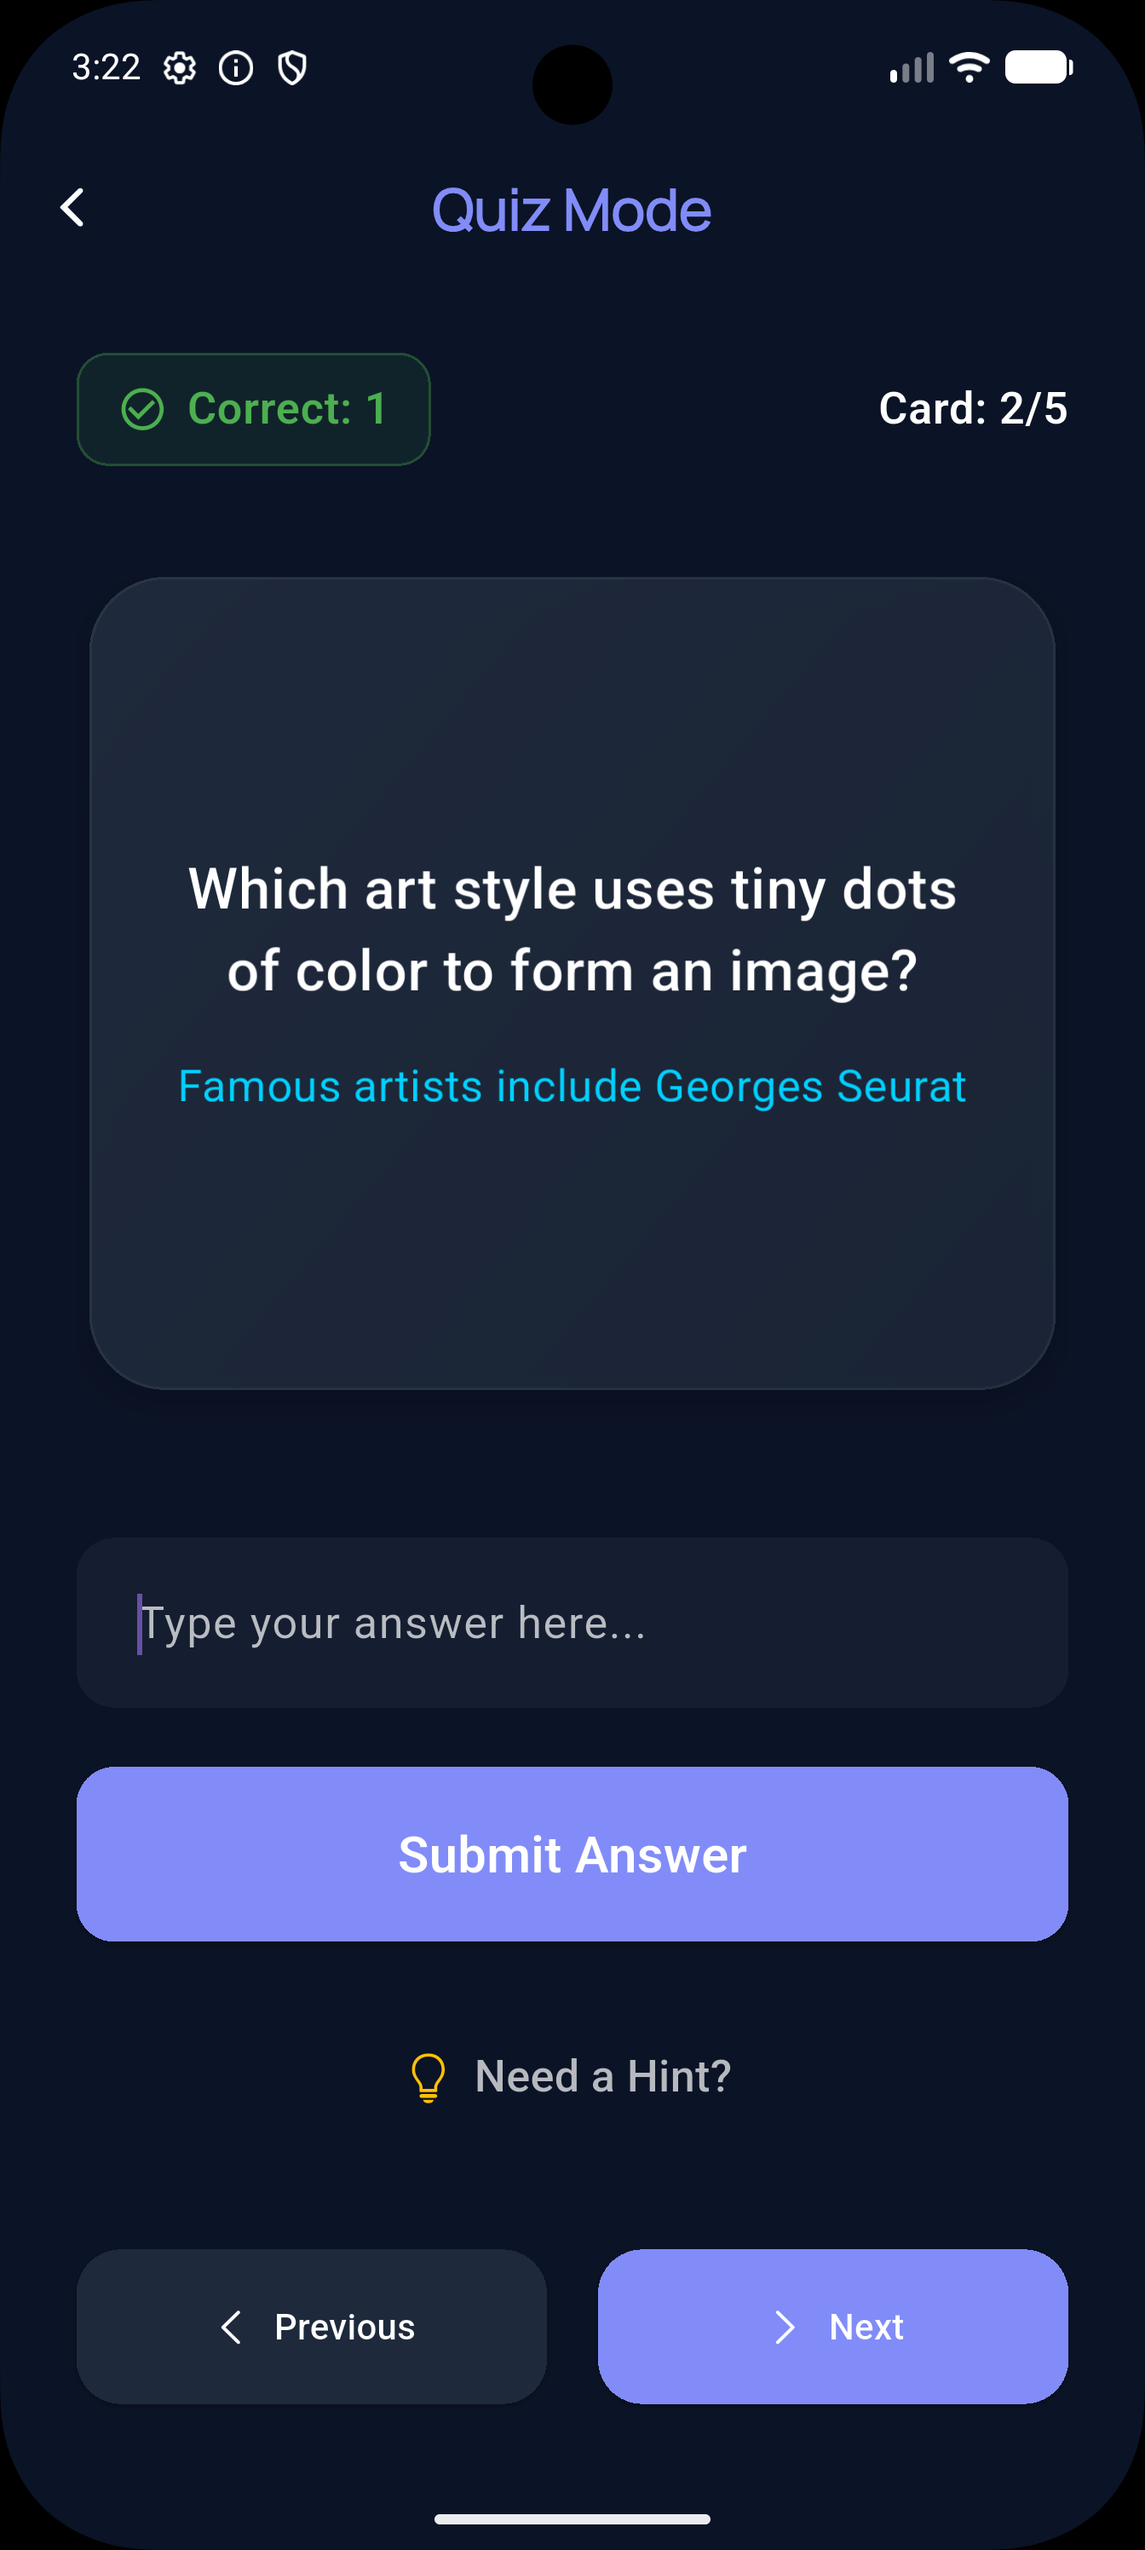
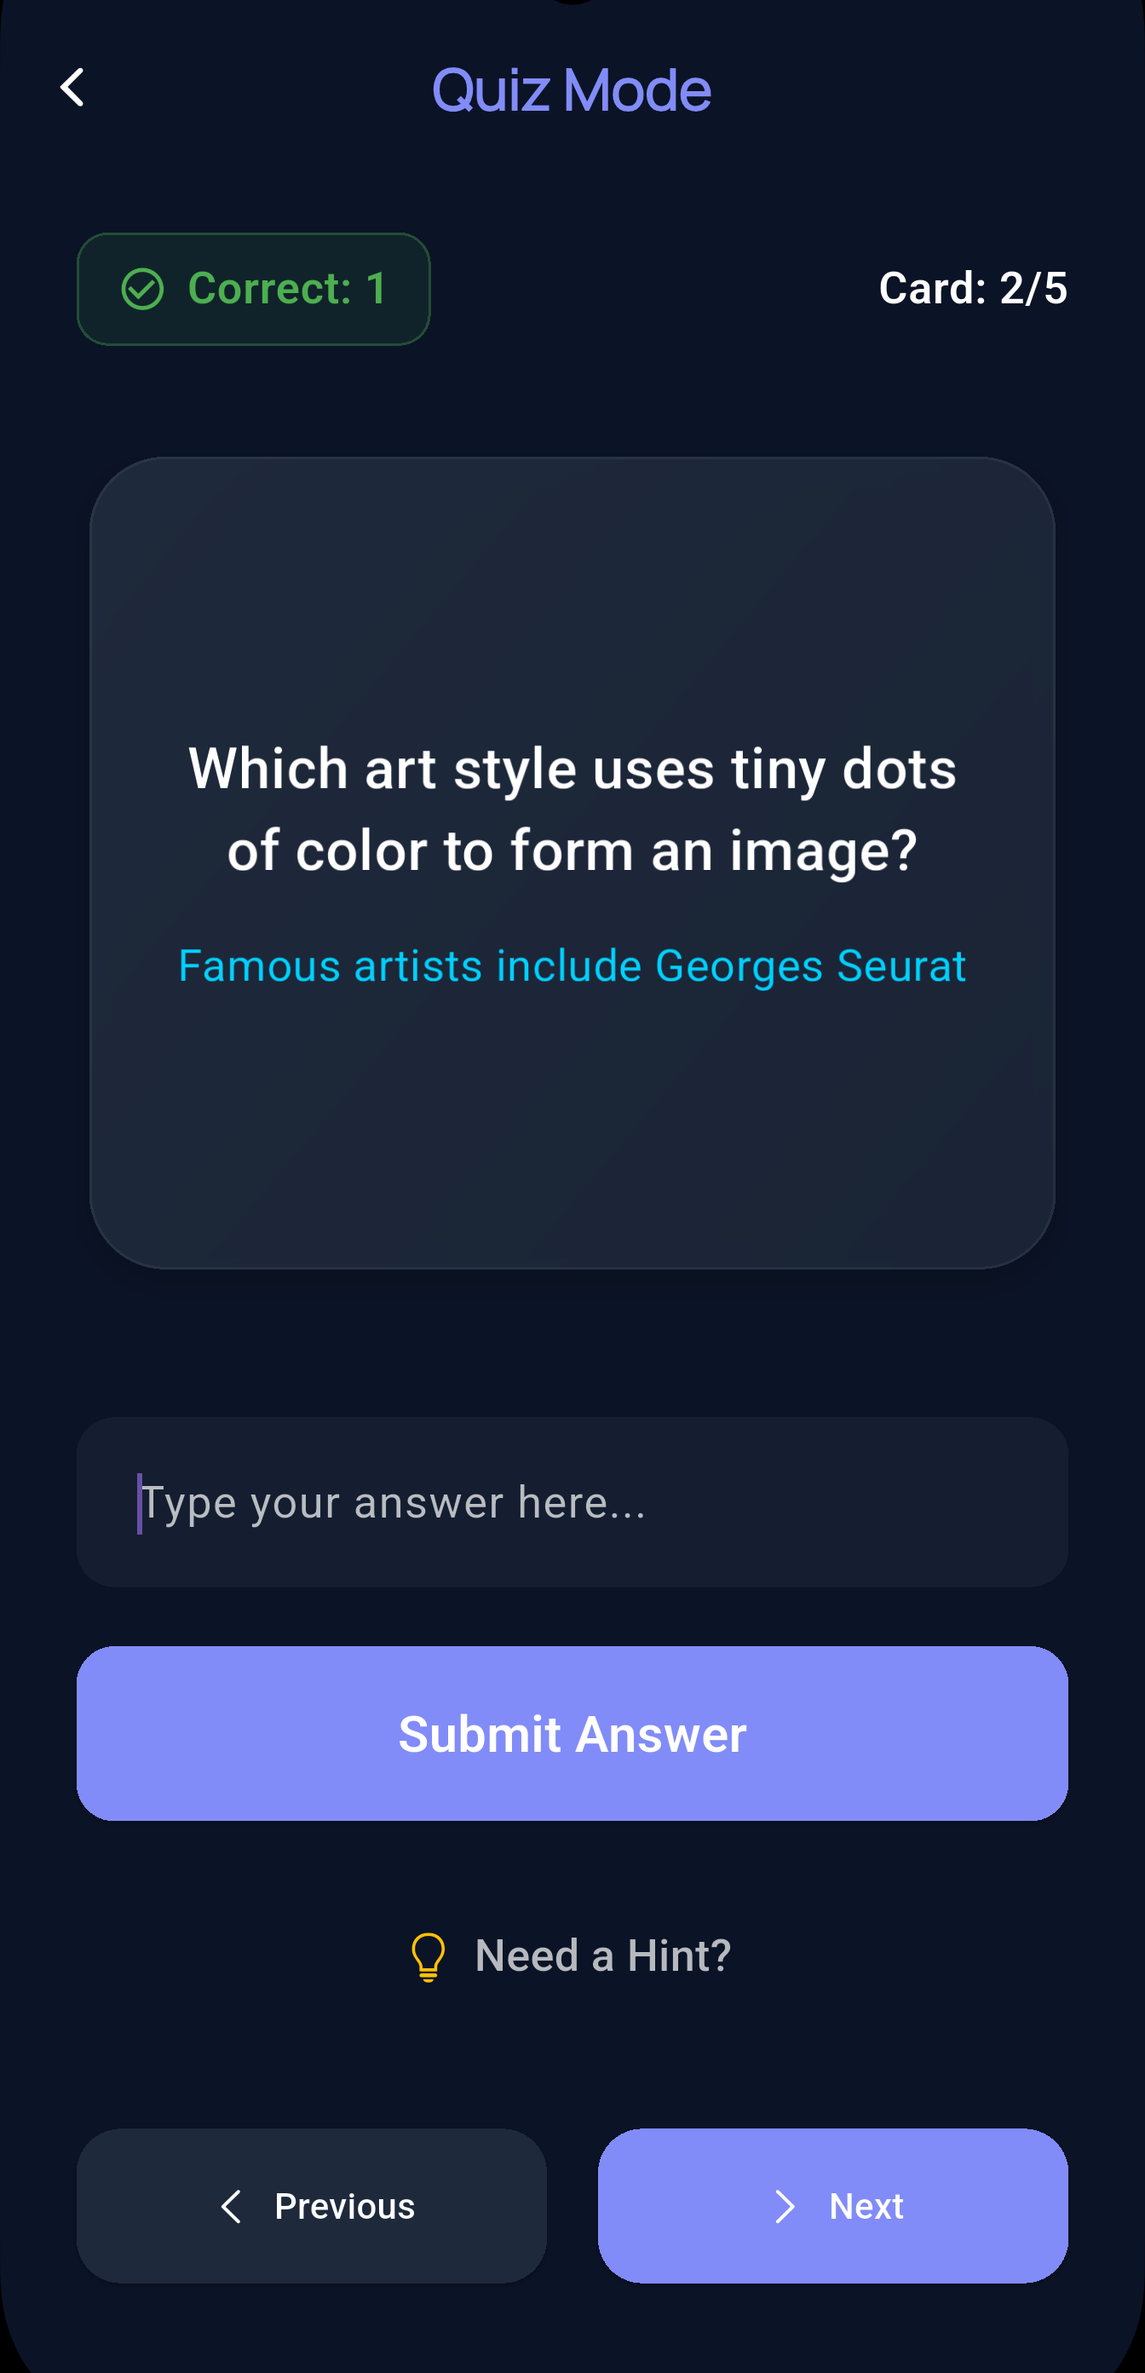
Add Google Play link to README and update project documentation

diff --git a/README.md b/README.md
@@ -15,9 +15,16 @@
   <a href="https://flutter.dev">
     <img src="https://img.shields.io/badge/Platform-Android%20%7C%20iOS-blue.svg?style=for-the-badge" alt="Platform">
   </a>
+  <a href="https://play.google.com/store/apps/details?id=com.ahmed.revio&hl=en_US">
+    <img src="https://img.shields.io/badge/Google%20Play-Available-4285F4.svg?style=for-the-badge&logo=googleplay&logoColor=white" alt="Google Play">
+  </a>
 </p>
 
 <p><strong>A sleek, dark-themed flashcard app built with Flutter, featuring flip card animations, quiz mode with hints, offline storage, and Clean Architecture.</strong></p>
+
+<p>
+  <a href="https://play.google.com/store/apps/details?id=com.ahmed.revio&hl=en_US"><strong>&#128241; Get it on Google Play</strong></a>
+</p>
 
 <p>
   <a href="#-features">&#10024; Features</a> &#8226; 
@@ -38,8 +45,7 @@
 
 ### 📱 Watch Revio in Action
 
-**[▶ Watch on YouTube Shorts](https://youtube.com/shorts/-9VfbxIcZkU?si=QQEJBxtYDR_acrIy)**
-
+**[▶ Watch on YouTube Shorts](https://youtube.com/shorts/-9VfbxIcZkU?si=Tcpe0iwRztryd7w4)**
 
 </div>
 
@@ -53,11 +59,7 @@
 
 </div>
 
-**Revio** is a modern Flutter flashcard application designed for efficient learning and
-memorization. Built with Clean Architecture and offline-first storage via Hive, it delivers a
-seamless, beautiful dark-themed user experience with animated flip cards, intelligent quiz mode with
-hints, and full CRUD operations. Designed as a portfolio project demonstrating best practices in
-mobile development.
+**Revio** is a modern Flutter flashcard application designed for efficient learning and memorization. Built with Clean Architecture and offline-first storage via Hive, it delivers a seamless, beautiful dark-themed user experience with animated flip cards, intelligent quiz mode with hints, and full CRUD operations. Designed as a portfolio project demonstrating best practices in mobile development.
 
 ---
 
@@ -68,35 +70,23 @@ mobile development.
 </div>
 
 ### &#127919; Core Features
-
 - **Flashcard Library** &#128218; Create, read, update, and delete flashcards with ease
-- **Flip Card Animation** &#128260; Smooth 3D flip animation to reveal answers (powered by
-  flip_card)
-- **Quiz Mode** &#127919; Test your knowledge with swipeable cards, Previous/Next navigation, and
-  progress tracking
-- **Smart Hints** &#128161; Optional hints for each card -- reveal when stuck, with graceful
-  handling when no hint exists
-- **Add New Cards** &#10133; Intuitive form with Question (Front), optional Hint, and Answer (Back)
-  fields
-- **Review & Manage** &#128221; Browse all cards in a scrollable list with inline Edit and Delete
-  actions
+- **Flip Card Animation** &#128260; Smooth 3D flip animation to reveal answers (powered by flip_card)
+- **Quiz Mode** &#127919; Test your knowledge with swipeable cards, Previous/Next navigation, and progress tracking
+- **Smart Hints** &#128161; Optional hints for each card -- reveal when stuck, with graceful handling when no hint exists
+- **Add New Cards** &#10133; Intuitive form with Question (Front), optional Hint, and Answer (Back) fields
+- **Review & Manage** &#128221; Browse all cards in a scrollable list with inline Edit and Delete actions
 - **Card Counter** &#128290; Real-time total cards display on the home dashboard
-- **Discard Protection** &#128737; Prevents accidental data loss when exiting the add card form with
-  unsaved changes
-- **Snackbar Feedback** &#9989; Visual confirmation for all CRUD operations (save, update, delete,
-  refresh)
+- **Discard Protection** &#128737; Prevents accidental data loss when exiting the add card form with unsaved changes
+- **Snackbar Feedback** &#9989; Visual confirmation for all CRUD operations (save, update, delete, refresh)
 - **Dark Theme UI** &#127769; Elegant dark interface with indigo accents for comfortable studying
 
 ### &#128295; Technical Highlights
-
 - **Clean Architecture** &#127959; Feature-based separation with clear layer boundaries
-- **BLoC (Cubit) State Management** &#129504; Predictable, scalable state with 4 states per
-  feature (Initial, Loading, Success, Error)
-- **Hive Local Database** &#128452; Blazing fast, lightweight NoSQL key-value storage for offline
-  persistence
+- **BLoC (Cubit) State Management** &#129504; Predictable, scalable state with 4 states per feature (Initial, Loading, Success, Error)
+- **Hive Local Database** &#128452; Blazing fast, lightweight NoSQL key-value storage for offline persistence
 - **Flip Card Animation** &#127136; 3D card flip using the flip_card package
-- **Responsive Design** &#128208; flutter_screenutil for pixel-perfect layouts across all screen
-  sizes
+- **Responsive Design** &#128208; flutter_screenutil for pixel-perfect layouts across all screen sizes
 - **Custom Typography** &#128395; Manrope font family for modern, readable text
 - **Navigation Extension** &#129517; Clean routing helper for type-safe navigation
 - **Native Splash & Icons** &#128241; Configured launcher icons and splash screen for Android
@@ -115,34 +105,33 @@ mobile development.
 
 ### &#128241; App Launch & Home
 
-|                &#127919; App Icon                |                &#128640; Splash Screen                |              &#128202; Home Dashboard               |
-|:------------------------------------------------:|:-----------------------------------------------------:|:---------------------------------------------------:|
+| &#127919; App Icon | &#128640; Splash Screen | &#128202; Home Dashboard |
+|:-------------------:|:-------------------------:|:---------------------------:|
 | <img src="screenshots/app_icon.png" width="200"> | <img src="screenshots/splash_screen.png" width="200"> | <img src="screenshots/home_screen.png" width="200"> |
-|            Revio on your home screen             |              Elegant dark splash screen               |    Card library with total count and navigation     |
+| Revio on your home screen | Elegant dark splash screen | Card library with total count and navigation |
 
 ### &#10133; Card Creation & Quiz Start
 
-|                   &#128221; Add New Card                    |                &#127919; Quiz -- First Question                |            &#127136; Quiz -- Mid Session            |
-|:-----------------------------------------------------------:|:--------------------------------------------------------------:|:---------------------------------------------------:|
+| &#128221; Add New Card | &#127919; Quiz -- First Question | &#127136; Quiz -- Mid Session |
+|:-------------------------:|:------------------------------------:|:---------------------------------:|
 | <img src="screenshots/add_new_card_screen.png" width="200"> | <img src="screenshots/first_q_in_quiz_screen.png" width="200"> | <img src="screenshots/quiz_screen.png" width="200"> |
-|         Form with Question, Hint, and Answer fields         |                        Start your quiz                         |               Navigate through cards                |
+| Form with Question, Hint, and Answer fields | Start your quiz | Navigate through cards |
 
 ### &#127136; Quiz Flow & Hints
 
-|                &#127136; Quiz -- Last Question                |                        &#128161; Hint Revealed                         |                       &#9888; No Hint Available                        |
-|:-------------------------------------------------------------:|:----------------------------------------------------------------------:|:----------------------------------------------------------------------:|
+| &#127136; Quiz -- Last Question | &#128161; Hint Revealed | &#9888; No Hint Available |
+|:------------------------------------:|:--------------------------:|:-----------------------------:|
 | <img src="screenshots/last_q_in_quiz_screen.png" width="200"> | <img src="screenshots/quiz_screen_when_user_use_hint.png" width="200"> | <img src="screenshots/quiz_screen_when_no_hint_exist.png" width="200"> |
-|                      Finish your session                      |                         Helpful hint displayed                         |                       Graceful fallback message                        |
+| Finish your session | Helpful hint displayed | Graceful fallback message |
 
 ### &#128203; Review & Answer Feedback
 
-|                   &#128221; Review Cards                    |                   &#9989; Correct Answer                    |                  &#10060; Incorrect Answer                  |
-|:-----------------------------------------------------------:|:-----------------------------------------------------------:|:-----------------------------------------------------------:|
+| &#128221; Review Cards | &#9989; Correct Answer | &#10060; Incorrect Answer |
+|:-------------------------:|:--------------------------:|:------------------------------:|
 | <img src="screenshots/review_cards_screen.png" width="200"> | <img src="screenshots/submit_right_answer.png" width="200"> | <img src="screenshots/submit_wrong_answer.png" width="200"> |
-|          Browse, edit, and delete your flashcards           |                  Instant success feedback                   |       Instant error feedback with retry encouragement       |
+| Browse, edit, and delete your flashcards | Instant success feedback | Instant error feedback with retry encouragement |
 
-> **Note:** Some screenshots use demo data to showcase specific app features and may not reflect
-> your personal card collection.
+> **Note:** Some screenshots use demo data to showcase specific app features and may not reflect your personal card collection.
 
 </div>
 
@@ -156,23 +145,23 @@ mobile development.
 
 <div align="center">
 
-|       Component       |           Technology           |         Purpose          |
-|:---------------------:|:------------------------------:|:------------------------:|
-|     **Framework**     |          Flutter 3.x           |    Cross-platform UI     |
-|     **Language**      |            Dart 3.x            |     Core development     |
-| **State Management**  |       flutter_bloc ^9.x        |    BLoC/Cubit pattern    |
-|  **Local Database**   |          hive_ce ^2.x          |   Offline card storage   |
-| **Database Flutter**  |      hive_ce_flutter ^2.x      | Hive Flutter integration |
-| **Screen Adaptation** |    flutter_screenutil ^5.x     |    Responsive design     |
-|  **Card Animation**   |        flip_card ^0.7.x        |   3D flip card effect    |
-|       **Icons**       |      cupertino_icons ^1.x      |     iOS-style icons      |
-|  **Code Generation**  |     hive_ce_generator ^1.x     |  TypeAdapter generation  |
-|   **Build Runner**    |       build_runner ^2.x        |   Code generation tool   |
-|   **Splash Screen**   |   flutter_native_splash ^2.x   |   Native launch screen   |
-|  **Launcher Icons**   | flutter_launcher_icons ^0.14.x |   App icon generation    |
-|  **Project Rename**   |          rename ^3.x           |  Bundle ID and app name  |
-|      **Design**       |           Material 3           |    Latest UI patterns    |
-|       **Font**        |            Manrope             |    Custom typography     |
+| Component | Technology | Purpose |
+|:---------:|:----------:|:-------:|
+| **Framework** | Flutter 3.x | Cross-platform UI |
+| **Language** | Dart 3.x | Core development |
+| **State Management** | flutter_bloc ^9.x | BLoC/Cubit pattern |
+| **Local Database** | hive_ce ^2.x | Offline card storage |
+| **Database Flutter** | hive_ce_flutter ^2.x | Hive Flutter integration |
+| **Screen Adaptation** | flutter_screenutil ^5.x | Responsive design |
+| **Card Animation** | flip_card ^0.7.x | 3D flip card effect |
+| **Icons** | cupertino_icons ^1.x | iOS-style icons |
+| **Code Generation** | hive_ce_generator ^1.x | TypeAdapter generation |
+| **Build Runner** | build_runner ^2.x | Code generation tool |
+| **Splash Screen** | flutter_native_splash ^2.x | Native launch screen |
+| **Launcher Icons** | flutter_launcher_icons ^0.14.x | App icon generation |
+| **Project Rename** | rename ^3.x | Bundle ID and app name |
+| **Design** | Material 3 | Latest UI patterns |
+| **Font** | Manrope | Custom typography |
 
 </div>
 
@@ -274,22 +263,16 @@ lib/
 
 ```dart
 // States (used across all features)
-class InitialState extends FeatureState {} // Feature idle
-
-class LoadingState extends FeatureState {} // Operation in progress
-
-class SuccessState extends FeatureState {} // Operation succeeded
-
-class ErrorState extends FeatureState {
-  // Operation failed
+class InitialState extends FeatureState {}           // Feature idle
+class LoadingState extends FeatureState {}           // Operation in progress
+class SuccessState extends FeatureState {}           // Operation succeeded
+class ErrorState extends FeatureState {               // Operation failed
   final String error;
-
   ErrorState({required this.error});
 }
 ```
 
 ### CardModel
-
 ```dart
 @HiveType(typeId: 0)
 class CardModel extends HiveObject {
@@ -300,24 +283,23 @@ class CardModel extends HiveObject {
   final String? category;
 
   @HiveField(2)
-  final String front; // Question (Front side)
+  final String front;                 // Question (Front side)
 
   @HiveField(3)
-  final String? hint; // Optional hint
+  final String? hint;                 // Optional hint
 
   @HiveField(4)
-  final String back; // Answer (Back side)
+  final String back;                  // Answer (Back side)
 }
 ```
 
 ### NavigationModel
-
 ```dart
 class NavigationModel {
-  final String imagePath; // Tile icon asset
-  final String title; // Tile title
-  final String subtitle; // Tile description
-  final VoidCallback onTap; // Navigation action
+  final String imagePath;             // Tile icon asset
+  final String title;                 // Tile title
+  final String subtitle;              // Tile description
+  final VoidCallback onTap;           // Navigation action
 }
 ```
 
@@ -330,21 +312,19 @@ class NavigationModel {
 </div>
 
 ### Color Palette
-
 ```dart
 class AppColors {
-  static const Color darkBackground = Color(0xFF0B1326); // Main background
-  static const Color indigoAccent = Color(0xFF818CF8); // Primary accent
-  static const Color iceBlue = Color(0xFFDAE2FD); // Headlines
-  static const Color lavenderGray = Color(0xFFC6C5D5); // Subtitles
-  static const Color gray = Color(0xFF9CA3AF); // Secondary text
-  static const Color oceanBlue = Color(0xFF1E293B); // Card surfaces
-  static const Color accentCyan = Color(0xFF00D1FF); // Hints & borders
+  static const Color darkBackground = Color(0xFF0B1326);  // Main background
+  static const Color indigoAccent = Color(0xFF818CF8);    // Primary accent
+  static const Color iceBlue = Color(0xFFDAE2FD);         // Headlines
+  static const Color lavenderGray = Color(0xFFC6C5D5);    // Subtitles
+  static const Color gray = Color(0xFF9CA3AF);            // Secondary text
+  static const Color oceanBlue = Color(0xFF1E293B);       // Card surfaces
+  static const Color accentCyan = Color(0xFF00D1FF);      // Hints & borders
 }
 ```
 
 ### Typography
-
 ```dart
 class AppStyles {
   static TextStyle font24BoldIndigoAccentManrope = TextStyle(
@@ -363,8 +343,7 @@ class AppStyles {
 }
 ```
 
-**Applied dynamically to:** AppBar, card backgrounds, text, icons, input borders, buttons, and
-snackbars.
+**Applied dynamically to:** AppBar, card backgrounds, text, icons, input borders, buttons, and snackbars.
 
 ---
 
@@ -375,7 +354,6 @@ snackbars.
 </div>
 
 ### Launcher Icons (flutter_launcher_icons.yaml)
-
 ```yaml
 flutter_launcher_icons:
   image_path: "assets/images/app_icon.png"
@@ -386,7 +364,6 @@ flutter_launcher_icons:
 ```
 
 ### Splash Screen (flutter_native_splash.yaml)
-
 ```yaml
 flutter_native_splash:
   color: "#030114"
@@ -444,10 +421,10 @@ flutter pub get
 
 ### &#128203; Prerequisites
 
-| Requirement | Version  |  Purpose  |
-|:-----------:|:--------:|:---------:|
+| Requirement | Version | Purpose |
+|:-----------:|:-------:|:-------:|
 | Flutter SDK | >=3.12.1 | Framework |
-|  Dart SDK   | >=3.12.1 | Language  |
+| Dart SDK | >=3.12.1 | Language |
 
 ### &#9881; Installation
 
@@ -478,14 +455,14 @@ flutter build ios --release      # iOS
 
 </div>
 
-| Issue                | Details                                     |      Status       |
-|:---------------------|:--------------------------------------------|:-----------------:|
-| No categories/tags   | Cards are not organized by category         | &#128295; Planned |
-| No search/filter     | Cannot search within card library           | &#128295; Planned |
-| No import/export     | Cards cannot be backed up or shared         | &#128295; Planned |
-| No spaced repetition | No SRS algorithm for optimal review timing  | &#128295; Planned |
-| No statistics        | No progress tracking or performance metrics | &#128295; Planned |
-| Single device only   | No cloud sync across devices                | &#128295; Planned |
+| Issue | Details | Status |
+|:------|:--------|:------:|
+| No categories/tags | Cards are not organized by category | &#128295; Planned |
+| No search/filter | Cannot search within card library | &#128295; Planned |
+| No import/export | Cards cannot be backed up or shared | &#128295; Planned |
+| No spaced repetition | No SRS algorithm for optimal review timing | &#128295; Planned |
+| No statistics | No progress tracking or performance metrics | &#128295; Planned |
+| Single device only | No cloud sync across devices | &#128295; Planned |
 
 ---
 
